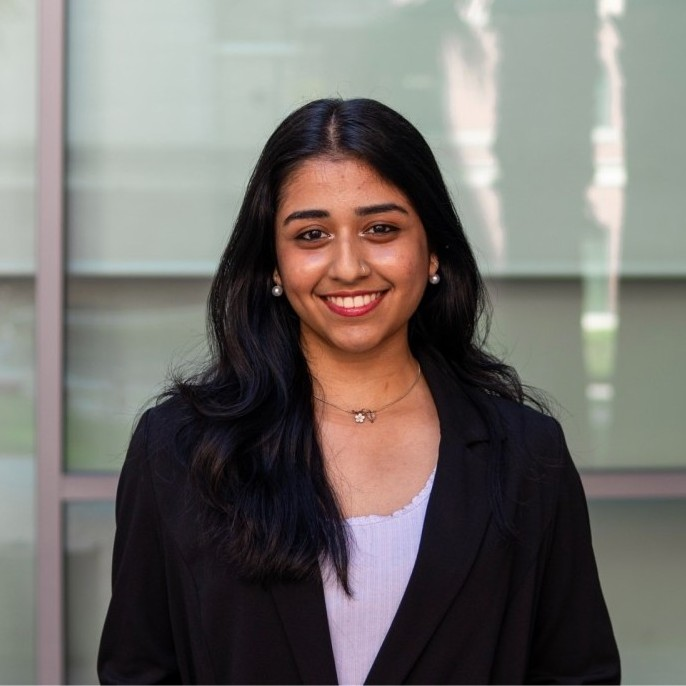
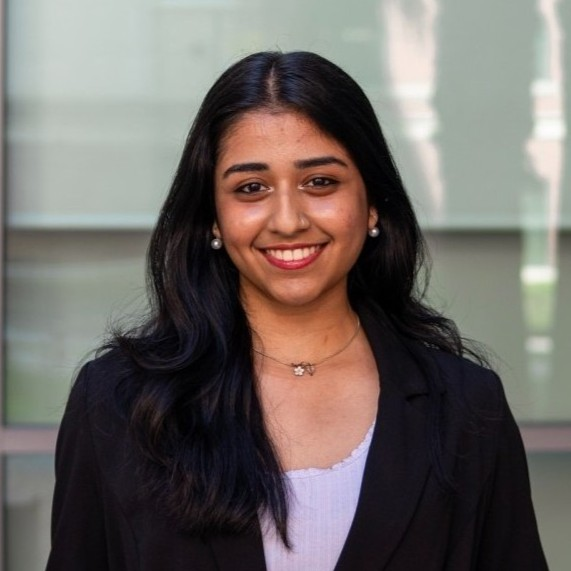
Add Tyler to ambassadors page; minor headshot changes

diff --git a/src/app/(public)/ambassadors/page.tsx b/src/app/(public)/ambassadors/page.tsx
@@ -11,13 +11,13 @@ export default function AmbassadorsPage() {
         The Mozilla Student Ambassadorship Program at RCC empowers students to take the
         lead in shaping the future of ethical technology. Ambassadors work closely with
         Mozilla and RCC to spark campus-wide conversations on responsible computing!
-        <br/>
-        <br/>
-          Want to get involved? Reach out to us
-          at <a href="mailto:rcc.sjsu@gmail.com">rcc.sjsu@gmail.com</a> or follow
-          us <a href="https://www.instagram.com/rcc.sjsu/">@rcc.sjsu</a> on Instagram to learn more!
-        <br/>
-        <br/>
+        <br />
+        <br />
+        Want to get involved? Reach out to us
+        at <a href="mailto:rcc.sjsu@gmail.com">rcc.sjsu@gmail.com</a> or follow
+        us <a href="https://www.instagram.com/rcc.sjsu/">@rcc.sjsu</a> on Instagram to learn more!
+        <br />
+        <br />
         Our Committees:
       </div>
       <br />
@@ -104,7 +104,7 @@ export default function AmbassadorsPage() {
       <br />
       <h1 className={styles.teamName}>Case</h1>
       <div className={styles.teamDescription}>
-        The Case Competition Committee designs and hosts challenges that encourage 
+        The Case Competition Committee designs and hosts challenges that encourage
         participants to solve real-world tech ethics problems, promoting critical
         thinking, teamwork, and responsible innovation.
       </div>
@@ -240,12 +240,19 @@ export default function AmbassadorsPage() {
 
         <AmbassadorCard
           color="blue"
-          photoURL="../../../../headshots/web-dev/connie-ly.jpeg"
-          name="Connie Ly"
+          photoURL="../../../../headshots/web-dev/tyler-awender.png"
+          name="Tyler Awender"
           role="Web Dev Ambassador"
         />
       </div>
       <div className={styles.ambassadorCards}>
+        <AmbassadorCard
+          color="blue"
+          photoURL="../../../../headshots/web-dev/connie-ly.jpeg"
+          name="Connie Ly"
+          role="Web Dev Ambassador"
+        />
+
         <AmbassadorCard
           color="blue"
           photoURL="../../../../headshots/web-dev/preethi-mohan.jpeg"
@@ -259,7 +266,8 @@ export default function AmbassadorsPage() {
           name="Marl Jonson"
           role="Web Dev Ambassador"
         />
-
+      </div>
+      <div className={styles.ambassadorCards}>
         <AmbassadorCard
           color="blue"
           photoURL="../../../../headshots/web-dev/matthew-bernard.png"
@@ -267,7 +275,6 @@ export default function AmbassadorsPage() {
           role="Web Dev Ambassador"
         />
       </div>
-
       <br />
       <br />
       <h1 className={styles.teamName}>Membership Outreach</h1>
@@ -352,7 +359,7 @@ export default function AmbassadorsPage() {
         />
         <AmbassadorCard
           color="blue"
-          photoURL="../../../../headshots/marketing/marc-mcdaniel.jpeg"
+          photoURL="../../../../headshots/marketing/marc-mcdaniel.png"
           name="Marc McDaniel"
           role="Digital Marketing Ambassador"
         />
